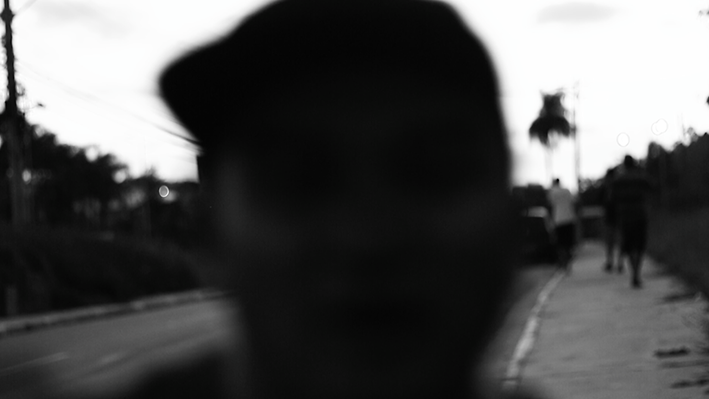
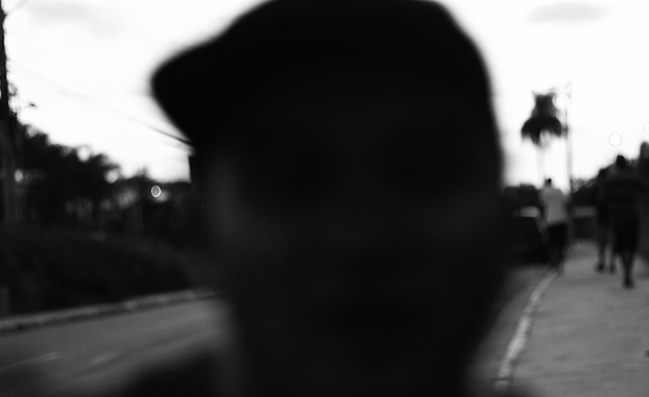
menu

diff --git a/css/style.css b/css/style.css
@@ -284,7 +284,7 @@ main {
 }
 
 .image1-small {
-    width: 60%;
+    width: 50%;
     height: auto;
 }
 
@@ -465,7 +465,7 @@ main {
 
     header {
         background-color: rgba(255, 255, 255, 0.685);
-        backdrop-filter: blur(7px);
+        backdrop-filter: blur(12px);
         position: fixed;
         left: -700px;
         width: 70%;

diff --git a/js/app.js b/js/app.js
@@ -43,6 +43,7 @@ navLinks.forEach((link) => {
         }
 
 
+
 // CONDITION POUR BIO
         const imgcenter = document.querySelector('.section1');
         if(contenu.id === "Bio"){
